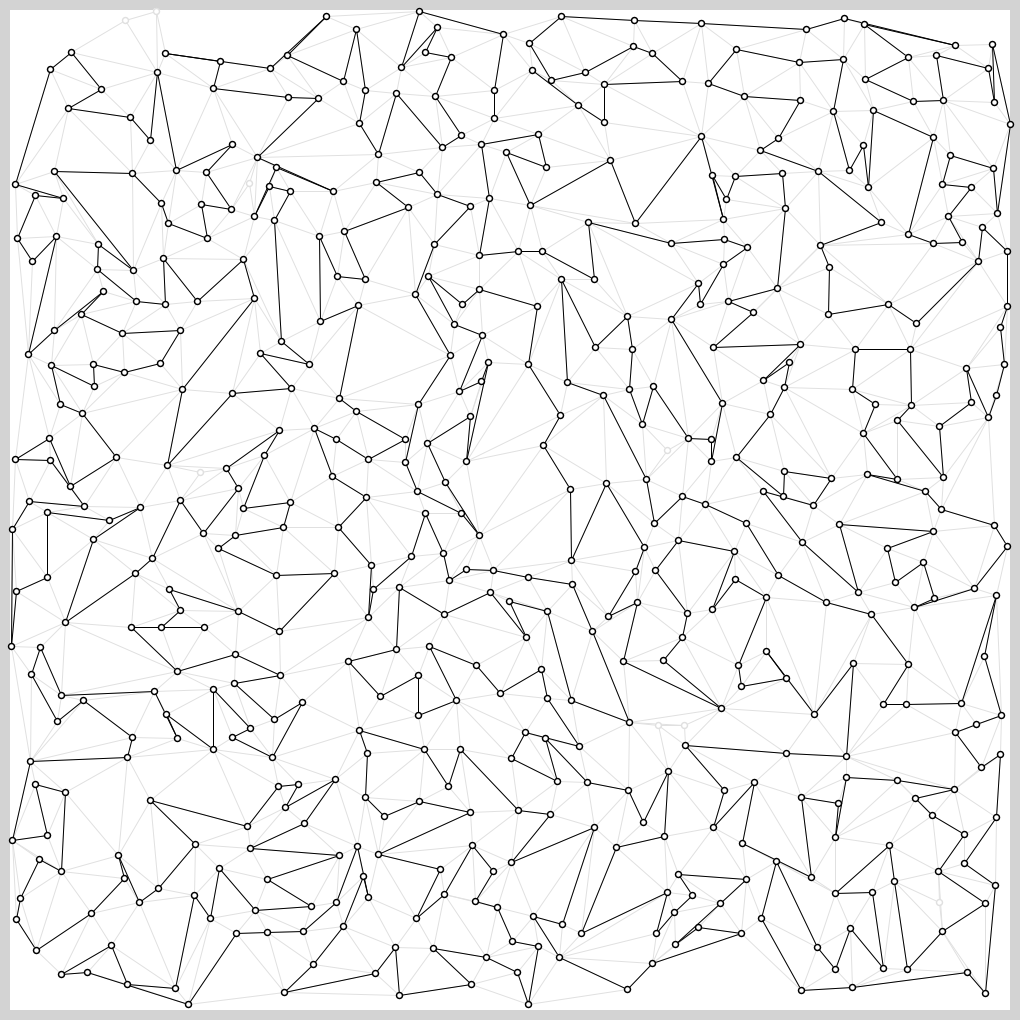
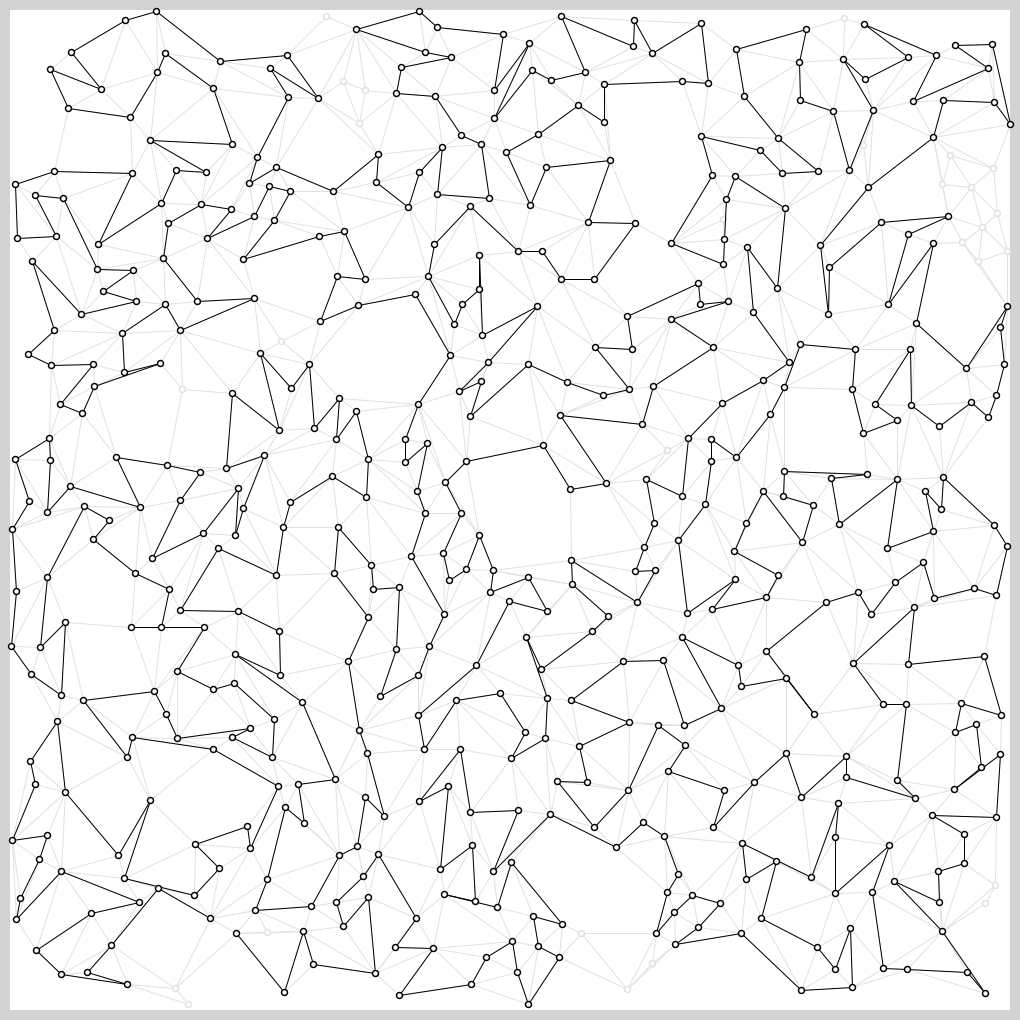
Fix LongestPath/Tester.java

diff --git a/LongestPath/tester/Tester.java b/LongestPath/tester/Tester.java
@@ -147,7 +147,7 @@ public class Tester
         connect = new boolean[N][N];
         ArrayList<Integer> edges = new ArrayList<Integer>();
         for (int i = 0; i < 2; i++) {
-            final int MAX_DIST = (int)((i + 1) * 1500.0 / Math.sqrt(N));
+            final int MAX_DIST = (int)((i + 1) * 1000.0 / Math.sqrt(N));
             for (Integer key : mMap.keySet()) {
                 int at = mMap.get(key) / N;
                 int bt = mMap.get(key) % N;
